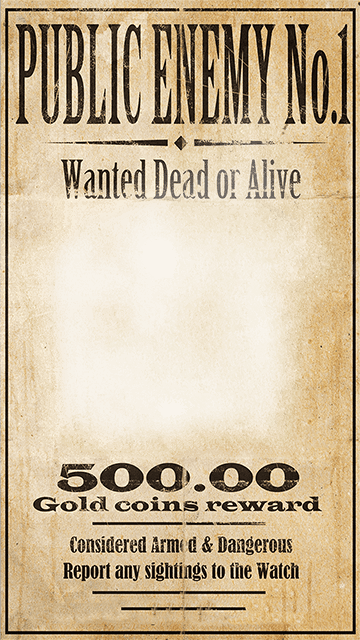
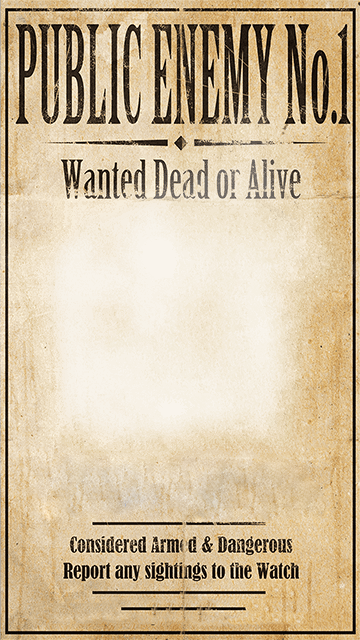
Fixed a bunch of stuff

Changed region(s): [[0.0611, 0.7188, 0.9167, 0.8125]]

diff --git a/commands/fun/slap.js b/commands/fun/slap.js
@@ -9,15 +9,15 @@ const getSlapped = async (slapper, slapped) => {
     Slapper,
     Slapped,
   ] = await Promise.all([
-    fsn.readFile("./assets/images/image_slap.png"),
+    fsn.readFile("./assets/images/plate_fanslap.jpg"),
     snek.get(slapper),
     snek.get(slapped),
   ]);
-  return new Canvas(950, 475)
-    .addImage(plate, 0, 0, 950, 475)
-    .addImage(Slapper.body, 410, 107, 131, 131, { type: "round", radius: 66 })
+  return new Canvas(640, 480)
+    .addImage(plate, 0, 0, 640, 480)
+    .addImage(Slapper.body, 229, 62, 64, 64, { type: "round", radius: 32 })
     .restore()
-    .addImage(Slapped.body, 159, 180, 169, 169, { type: "round", radius: 85 })
+    .addImage(Slapped.body, 405, 245, 64, 64, { type: "round", radius: 32 })
     .restore()
     .toBuffer();
 };

diff --git a/commands/fun/stepped.js b/commands/fun/stepped.js
@@ -4,13 +4,15 @@ const snek = require("snekfetch");
 const fsn = require("fs-nextra");
 
 const getStepped = async (person) => {
-  const plate = await fsn.readFile("./assets/images/plate_stepped.jpg");
+  const plate = await fsn.readFile("./assets/images/plate_stepped.png");
   const { body } = await snek.get(person);
   return new Canvas(400, 562)
-    .setColor("#000000")
-    .addRect(0, 0, 400, 562)
-    .addImage(plate, 0, 0, 400, 562)
-    .addImage(body, 100, 350, 128, 128)
+    .setColor("#cccccc")
+    .addRect(0, 0, 400, 566)
+    .rotate(50 * -Math.PI / 180)
+    .addImage(body, -280, 350, 128, 128)
+    .rotate(-50 * Math.PI / -180)
+    .addImage(plate, 0, 0, 400, 566)
     .toBuffer();
 };
 

diff --git a/commands/social/store/buy.js b/commands/social/store/buy.js
@@ -26,7 +26,7 @@ class Buy extends Social {
     }
 
     const response = await this.client.awaitReply(message, `Are you sure you want to purchase ${item.name} for ${this.emoji(message.guild.id)}${item.price}?`, undefined, null);
-    if (["y", "yes"].includes(response)) {
+    if (["y", "yes"].includes(response.toLowerCase())) {
 
       message.member.takePoints(item.price);
       await message.member.addRole(item.id);
@@ -34,7 +34,7 @@ class Buy extends Social {
 
     } else
 
-    if (["n", "no", "cancel"].includes(response)) {
+    if (["n", "no", "cancel"].includes(response.toLowerCase())) {
       message.response(undefined, "Transaction cancelled.");
     }
   }

diff --git a/commands/fun/wanted.js b/commands/fun/wanted.js
@@ -4,13 +4,13 @@ const snek = require("snekfetch");
 const fsn = require("fs-nextra");
 
 const getWanted = async (person) => {
-  const plate = await fsn.readFile("./assets/images/plate_wanted.jpg");
+  const plate = await fsn.readFile("./assets/images/plate_wanted.png");
   const { body } = await snek.get(person);
-  return new Canvas(400, 562)
-    .setColor("#000000")
-    .addRect(0, 0, 400, 562)
-    .addImage(plate, 0, 0, 400, 562)
-    .addImage(body, 86, 178, 228, 228)
+  return new Canvas(360, 640)
+    .setColor("#debb80")
+    .addRect(0, 0, 360, 640)
+    .addImage(body, 30, 200, 300, 300)
+    .addImage(plate, 0, 0, 360, 640)
     .toBuffer();
 };
 

diff --git a/events/message.js b/events/message.js
@@ -21,7 +21,7 @@ module.exports = class {
     let prefix = false;
   
     for (const thisPrefix of prefixes) {
-      if (message.content.indexOf(thisPrefix) == 0) prefix = thisPrefix;
+      if (message.content.toLowerCase().indexOf(thisPrefix) == 0) prefix = thisPrefix;
     }
   
     if (message.content.match(new RegExp(`^<@!?${this.client.user.id}>$`))) {
